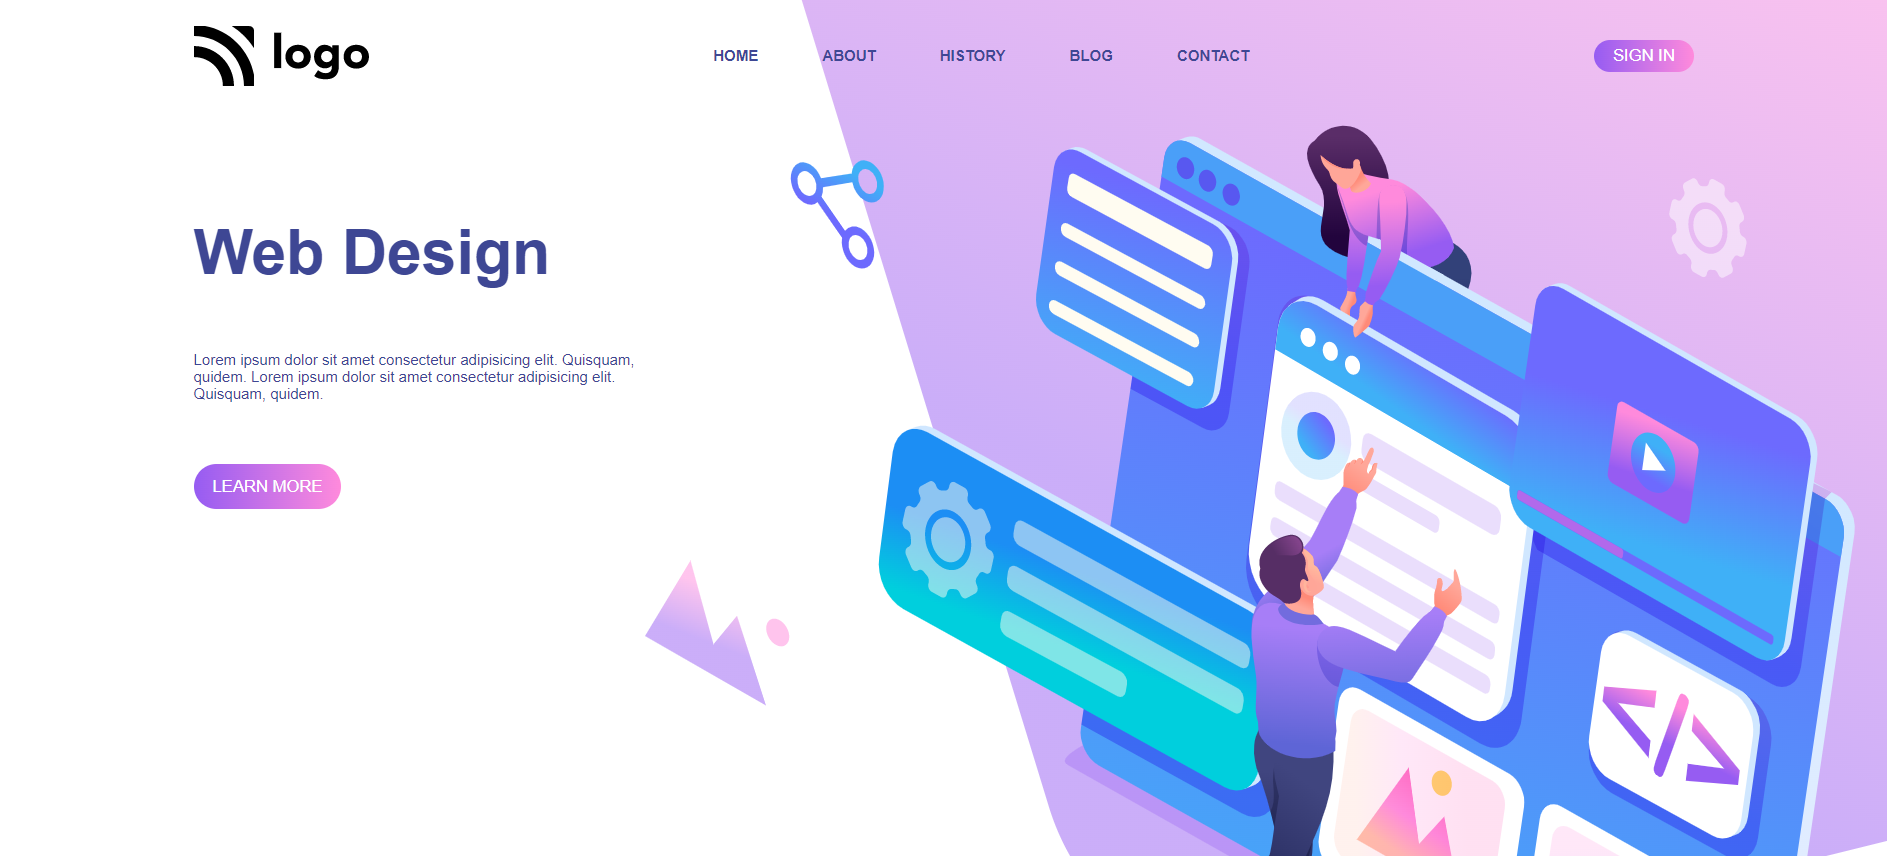
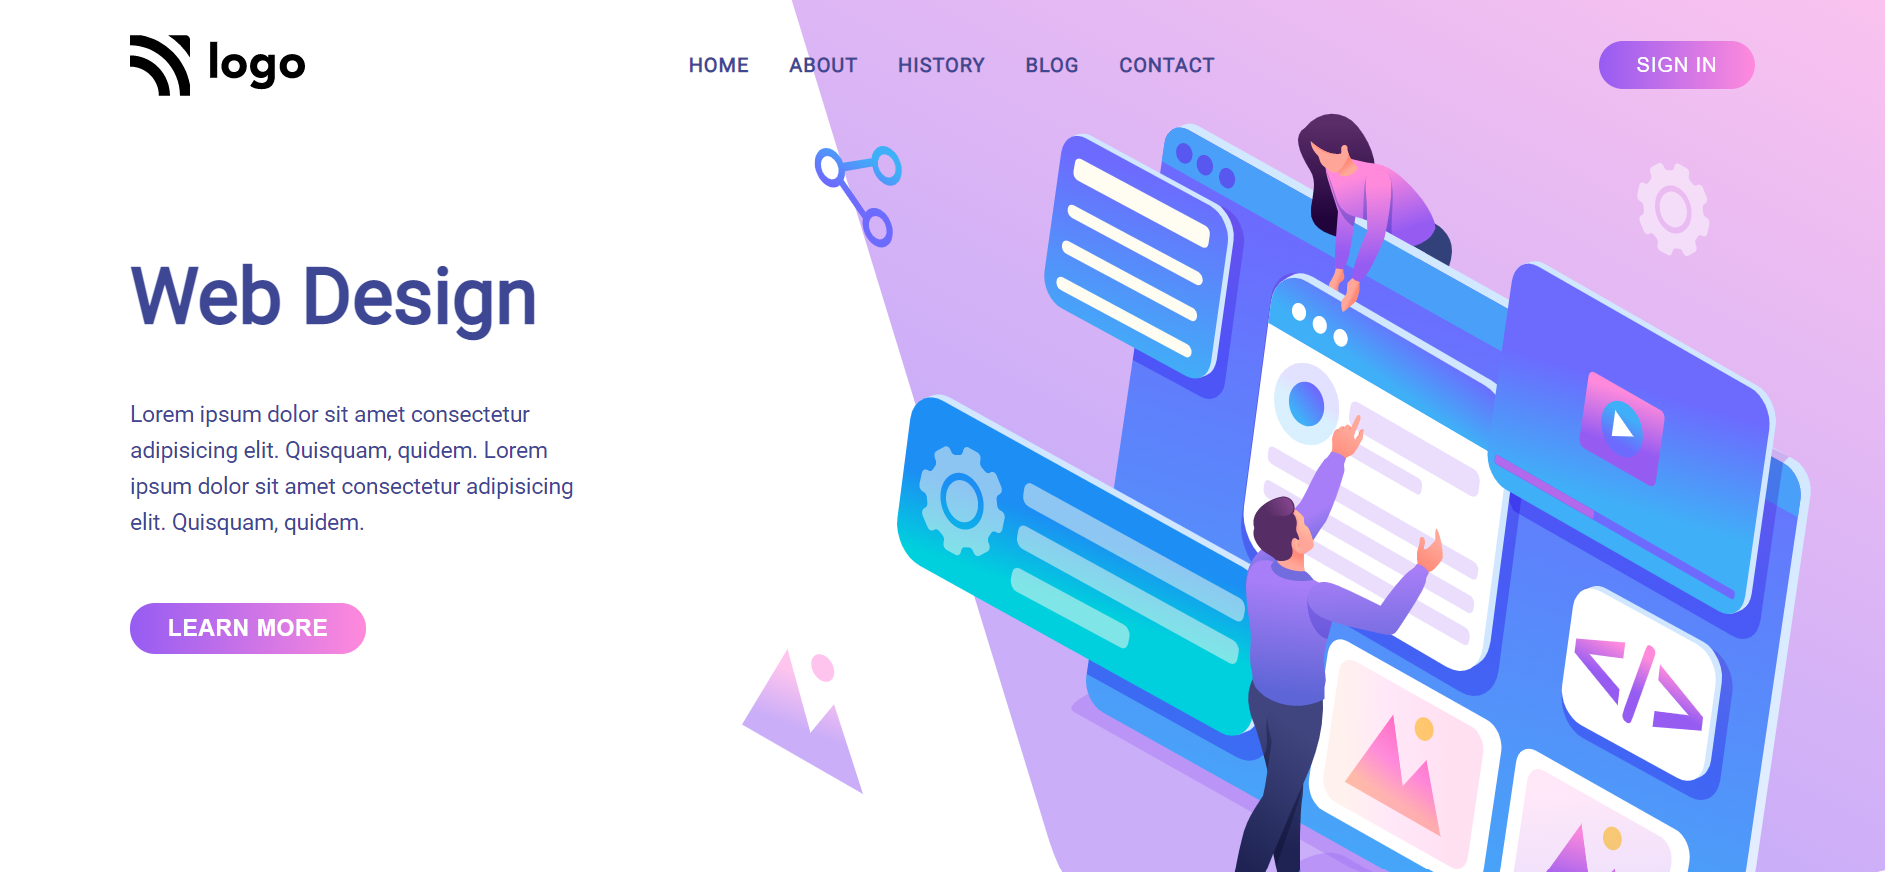
Media Querie and README changes

diff --git a/css/queries.css b/css/queries.css
@@ -59,6 +59,10 @@
 /**************************/
 
 @media (max-width: 44em) {
+	.main-div {
+		height: 130vh;
+	}
+
 	nav img {
 		height: 4rem;
 	}

diff --git a/README.md b/README.md
@@ -2,7 +2,7 @@
 
 ![Created By Sayantan Bera](https://img.shields.io/badge/Created%20By-Sayantan%20Bera-blue)
 
-## **Project-8** [Live Link](https://plant-landing-page-sayantan.netlify.app/)
+## **Project-8** [Live Link](https://web-design-sayantan.netlify.app/)
 
 ### Website Image
 
@@ -16,4 +16,4 @@
 
 - I Learned about flexbox in details.
 
-## This project took around 4.5 hours to complete.
+## This project took around 4.5 hours to complete and 1.5 hours to responsive.
